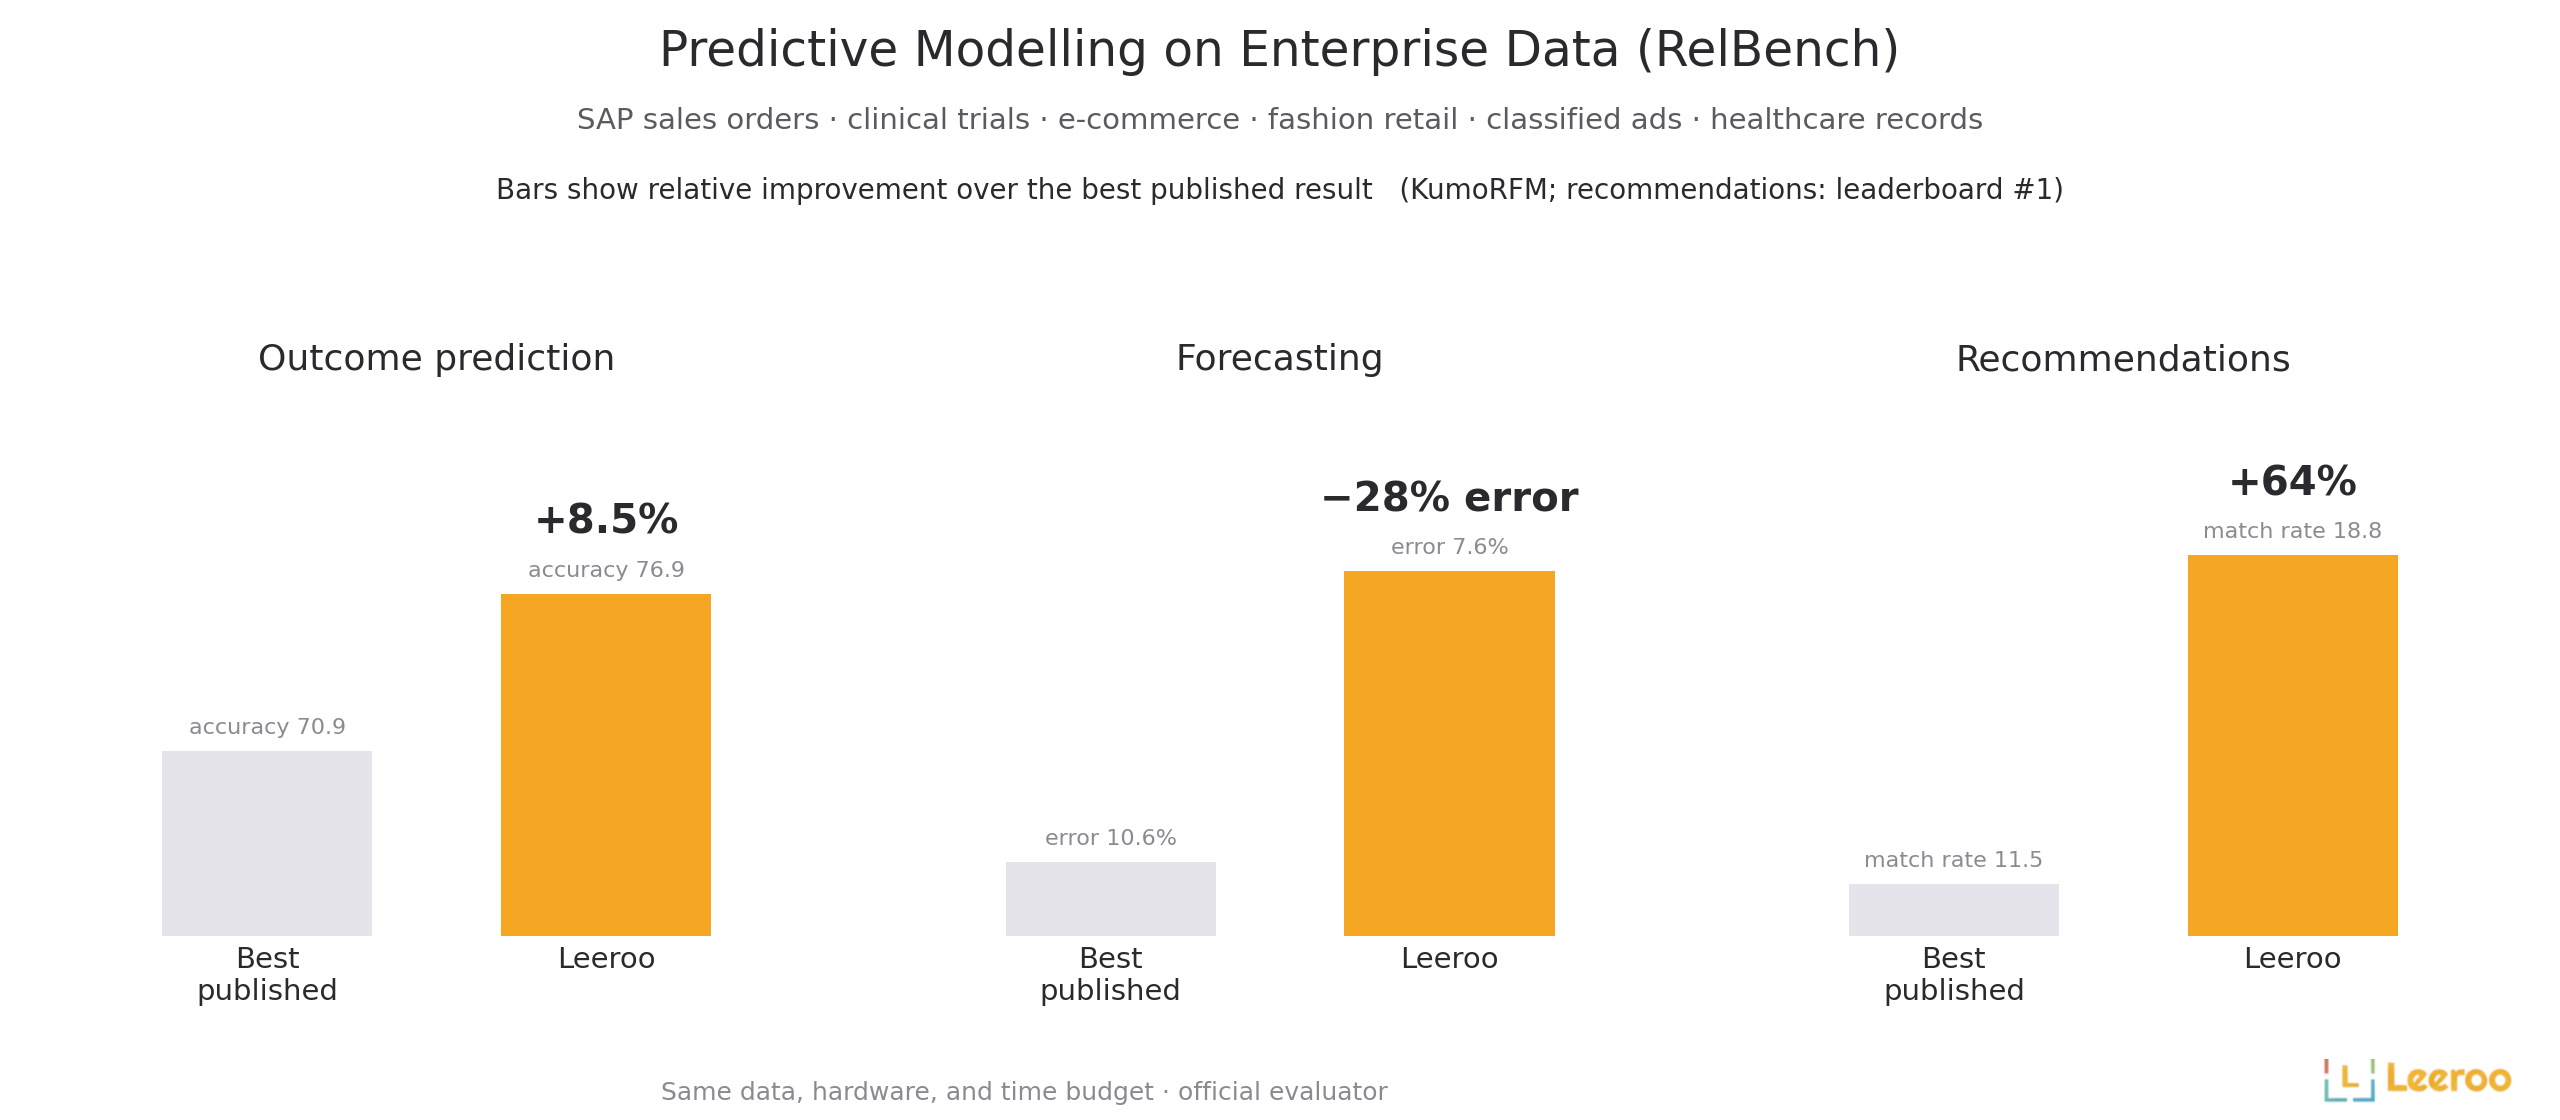
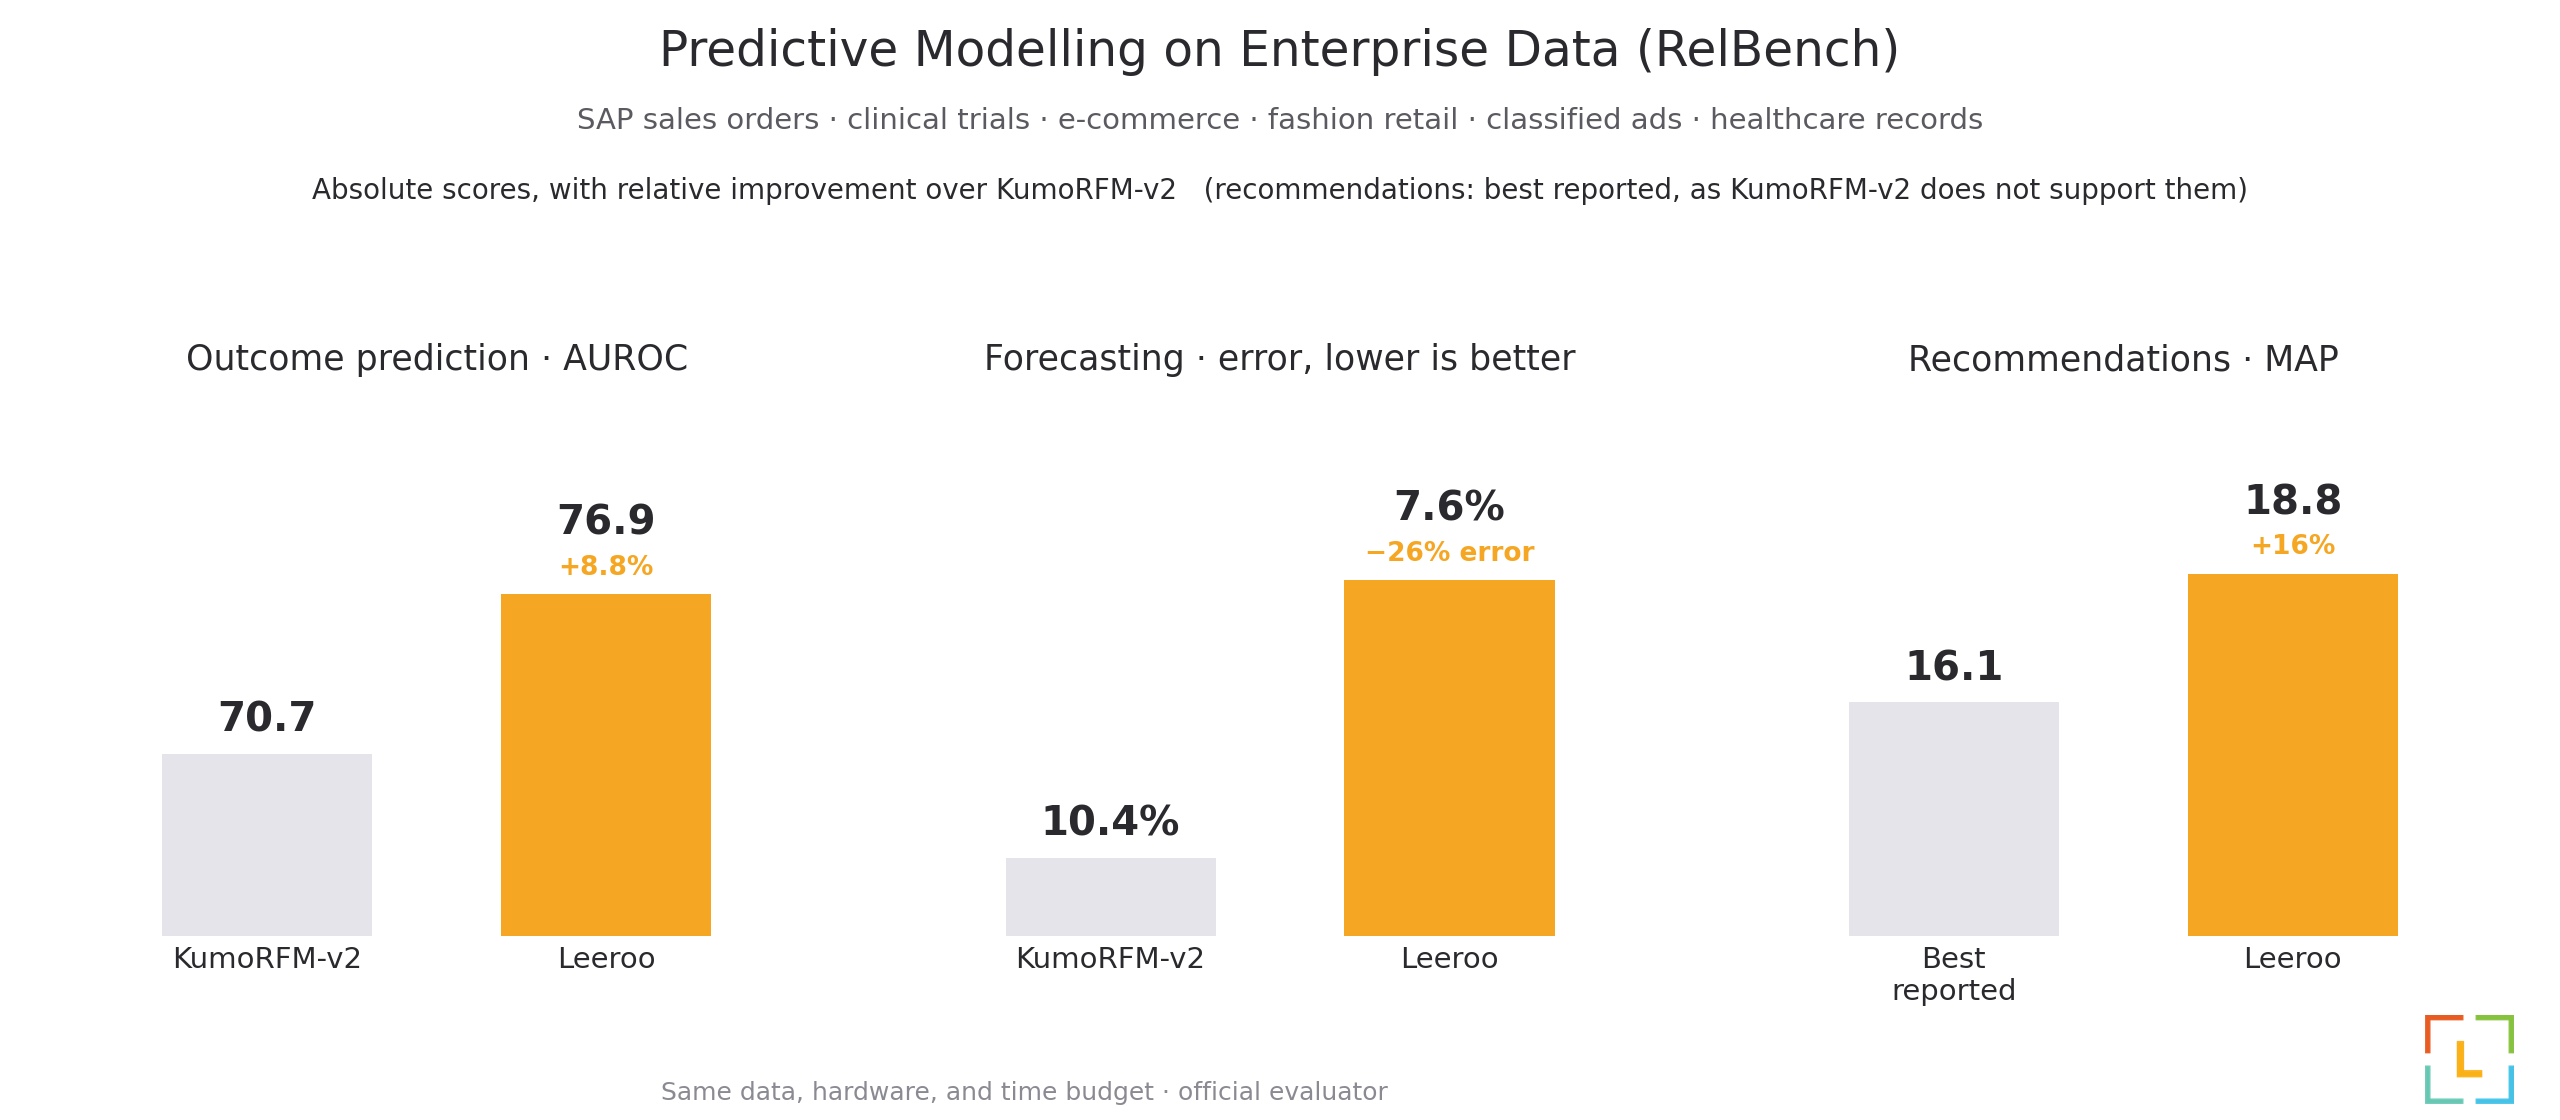
relbench: Results section leads with KumoRFM-v2; figures show absolutes + relative gains
KumoRFM-v2 introduced as the strongest foundational relational model and
the anchor for outcome prediction and forecasting; it does not support
recommendation tasks, so that panel anchors on the best reported result
per task (ContextGNN / KumoRFM-v1-ft published numbers). Figures rebuilt
from the archived baselines/sota records with absolute scores as primary
labels and relative improvements beneath, per-panel anchor labels, and
the official Leeroo mark. Honest consequence: the recommendations
headline is +16% vs best reported (the prior +64% was vs the stale
official leaderboard #1); Claude Code lands below that bar at -22%.

diff --git a/benchmarks/relbench/README.md b/benchmarks/relbench/README.md
@@ -15,10 +15,16 @@ and **Leeroopedia**, Leeroo's curated ML knowledge base.
 
 ## Results
 
-Kapso beats the best published results across the three task families. The same solutions,
-re-measured under an identical budget, also beat a frontier coding agent working alone:
+[KumoRFM-v2](https://arxiv.org/abs/2604.12596) is the strongest foundational model for
+relational data: one pretrained model, queried in context on any database. It is the bar to
+beat in outcome prediction and forecasting. Recommendation tasks are the gap in its coverage
+(the model does not support them), so there Kapso is measured against the best reported
+result per task. Kapso beats both bars:
 
-![Kapso vs best published](assets/kapso_vs_best_published.png)
+![Kapso vs KumoRFM-v2](assets/kapso_vs_best_published.png)
+
+The same solutions, re-measured under an identical budget, also beat a frontier coding agent
+working alone:
 
 ![Kapso vs Claude Code](assets/kapso_vs_claude_code.png)
 
